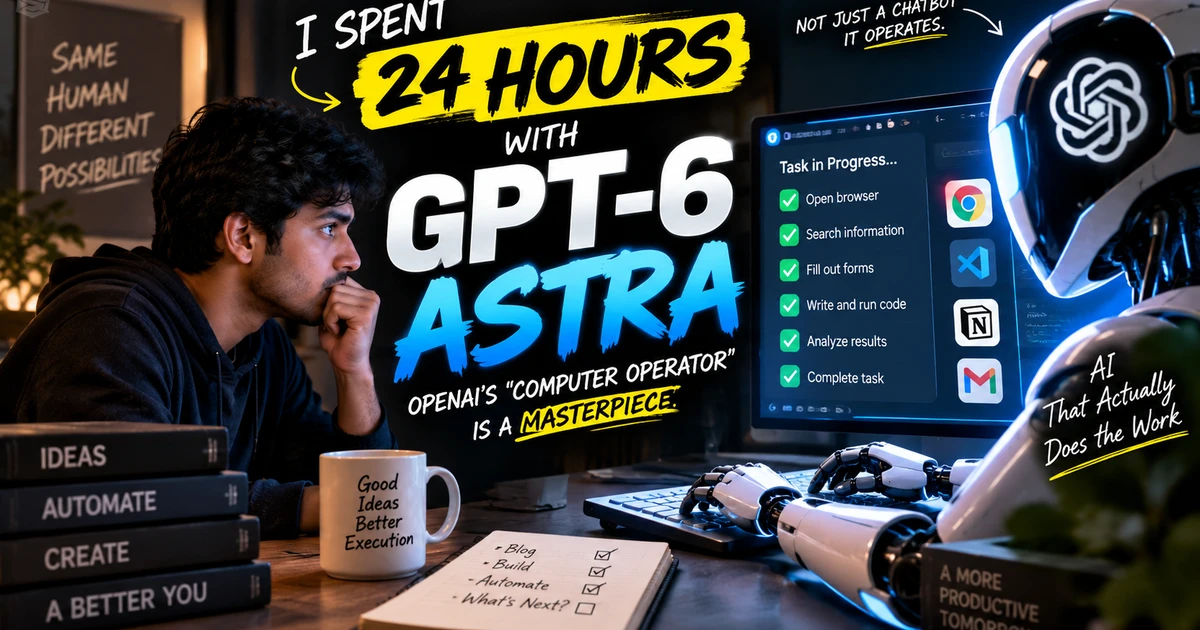
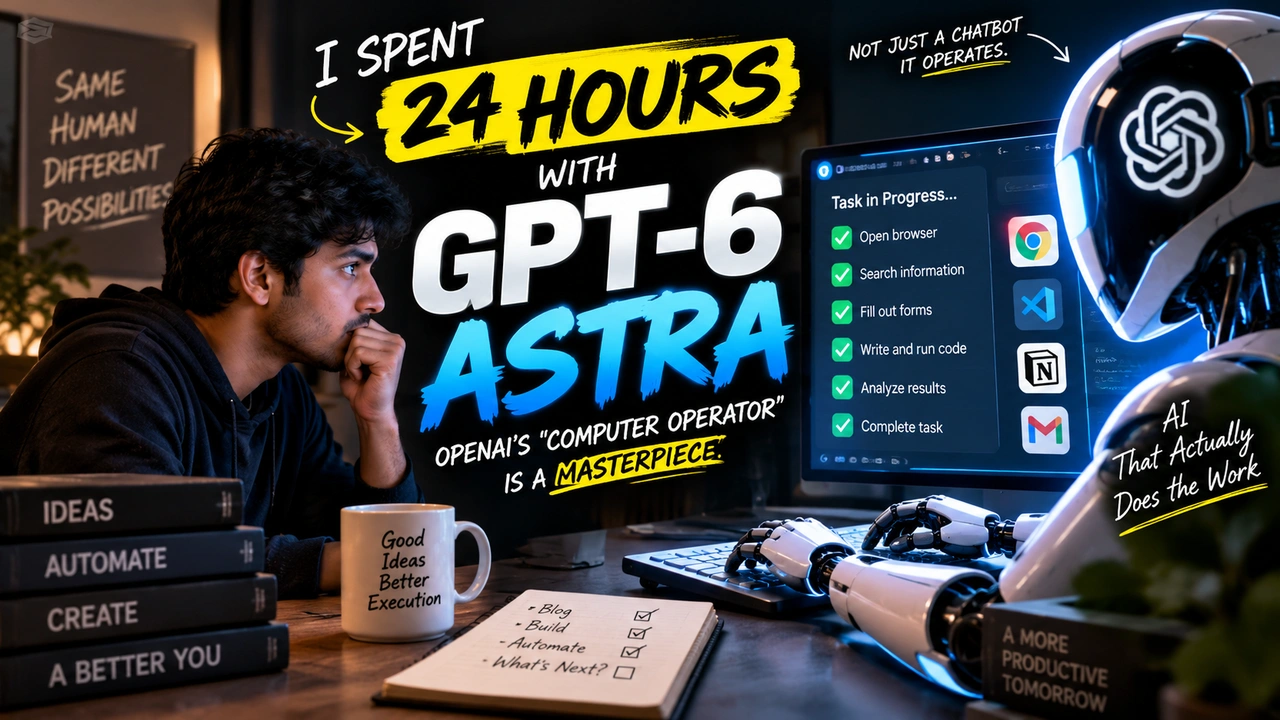
fix: update hero image to exactly 1280x720 (16:9) as per Google Discover recommended guidelines, update OG tags

diff --git a/blog/gpt-6-astra-openai-review/index.html b/blog/gpt-6-astra-openai-review/index.html
@@ -14,8 +14,8 @@
     <meta property="og:url" content="https://www.htmltoimages.com/blog/gpt-6-astra-openai-review/">
     <meta property="og:site_name" content="HTMLtoImages">
     <meta property="og:image" content="https://www.htmltoimages.com/blog/gpt-6-astra-openai-review/img1.webp">
-    <meta property="og:image:width" content="1200">
-    <meta property="og:image:height" content="630">
+    <meta property="og:image:width" content="1280">
+    <meta property="og:image:height" content="720">
     <meta property="og:locale" content="en_US">
     <meta property="article:published_time" content="2026-09-19T00:00:00+05:30">
     <meta property="article:modified_time" content="2026-09-19T00:00:00+05:30">
